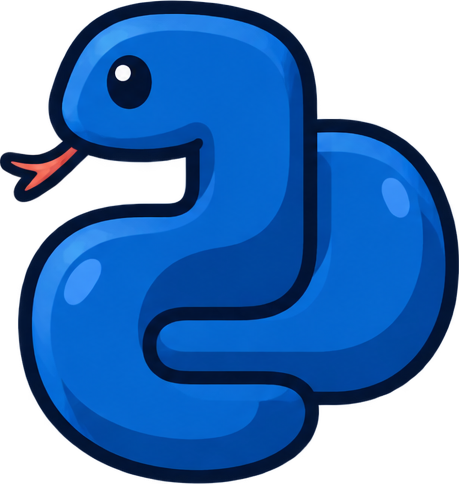
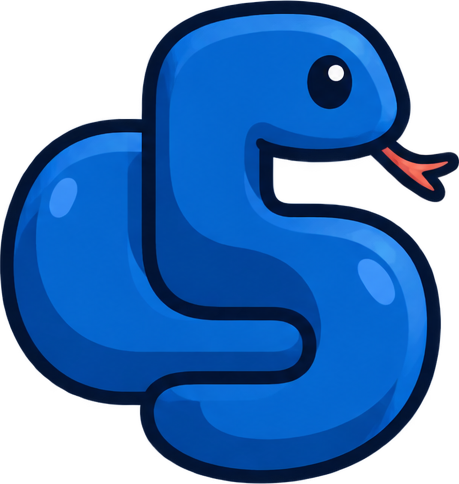
add orientation to snake movement

diff --git a/player.py b/player.py
@@ -16,8 +16,10 @@ class Player:
         self.left_key = left_key
         self.right_key = right_key
         self.jump_key = jump_key
-        self.image = pygame.image.load(image_path).convert_alpha()
-        self.image = pygame.transform.scale(self.image, (width, height))
+        self.image_right = pygame.image.load(image_path).convert_alpha()
+        self.image_right = pygame.transform.scale(self.image_right, (width, height))
+        self.image_left = pygame.transform.flip(self.image_right, True, False)
+        self.facing_right = True
 
     def reset(self):
         self.x = float(self.start_x)
@@ -32,8 +34,10 @@ class Player:
         keys = pygame.key.get_pressed()
         if keys[self.left_key]:
             self.velocity_x -= PLAYER_ACCELERATION
+            self.facing_right = False
         if keys[self.right_key]:
             self.velocity_x += PLAYER_ACCELERATION
+            self.facing_right = True
         if self.velocity_x > PLAYER_MAX_SPEED:
             self.velocity_x = PLAYER_MAX_SPEED
         if self.velocity_x < -PLAYER_MAX_SPEED:
@@ -103,4 +107,5 @@ class Player:
             self.is_on_ground = False
 
     def draw(self, screen):
-        screen.blit(self.image, self.rect)
+        image = self.image_right if self.facing_right else self.image_left
+        screen.blit(image, self.rect)
